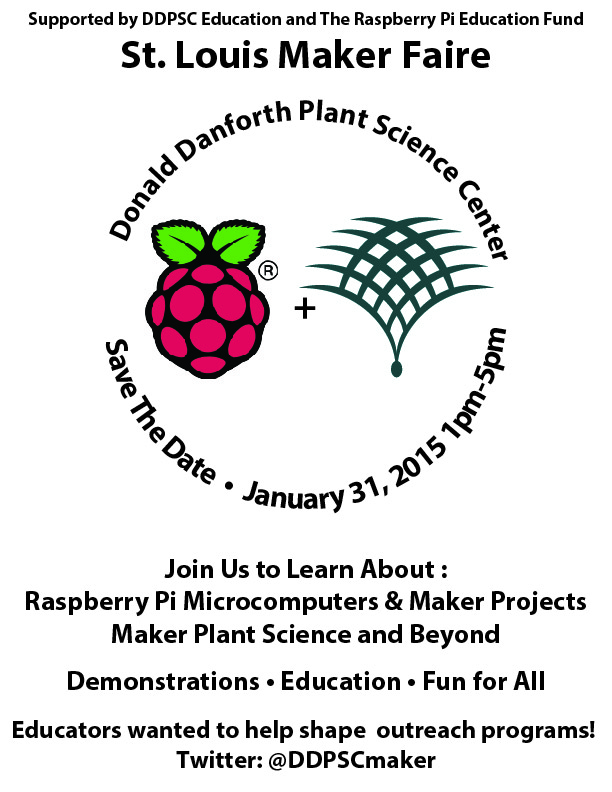
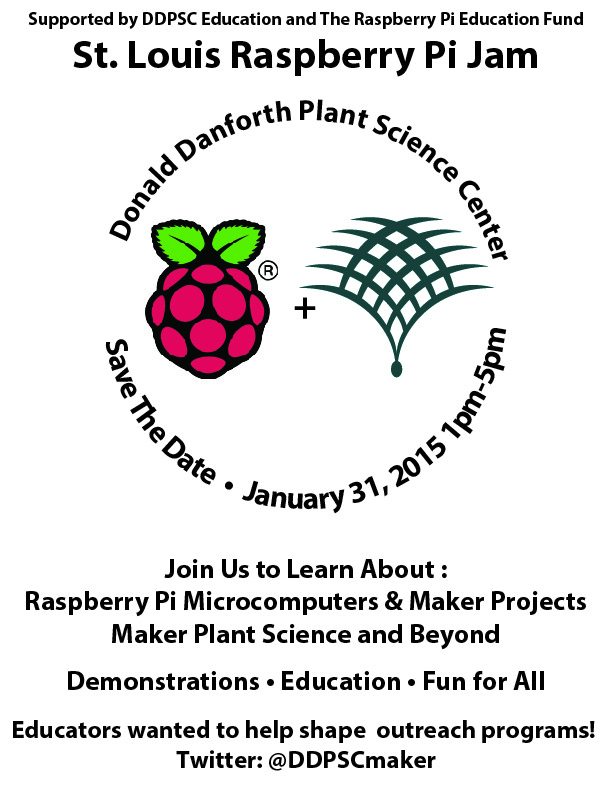
maker faire info added

Changed region(s): [[0.1242, 0.0303, 0.9003, 0.0909]]

diff --git a/pages/events.html b/pages/events.html
@@ -13,7 +13,7 @@ subtitle: Events
     
     <div class="col-md-5">
         <p>
-          The DDPSC Maker Group is excited to announce that we will be hosting a Maker Faire (free to the public!) January 31, 2015 at the Danforth Center (St. Louis, MO).
+          The DDPSC Maker Group is excited to announce that we will be hosting a Raspberry Pi Jam, to show off your latest Maker projects. The event is free to the public and will be held on January 31, 2015 at the Danforth Center (St. Louis, MO).
           If your group is interested in having a booth please contact <a href="mailto:ddpsc.maker@gmail.com"><b>ddpsc.maker@gmail.com</b></a>.
           <img style="border:1px solid black"; src="/images/events/2015/DDPSC_makerfaire_Jan31.jpg" width="400" alt>
         </p>

diff --git a/_site/pages/events.html b/_site/pages/events.html
@@ -84,7 +84,7 @@
     
     <div class="col-md-5">
         <p>
-          The DDPSC Maker Group is excited to announce that we will be hosting a Maker Faire (free to the public!) January 31, 2015 at the Danforth Center (St. Louis, MO).
+          The DDPSC Maker Group is excited to announce that we will be hosting a Raspberry Pi Jam, to show off your latest Maker projects. The event is free to the public and will be held on January 31, 2015 at the Danforth Center (St. Louis, MO).
           If your group is interested in having a booth please contact <a href="mailto:ddpsc.maker@gmail.com"><b>ddpsc.maker@gmail.com</b></a>.
           <img style="border:1px solid black"; src="/images/events/2015/DDPSC_makerfaire_Jan31.jpg" width="400" alt>
         </p>

diff --git a/pages/contact.html b/pages/contact.html
@@ -10,7 +10,7 @@ subtitle:
     <div class="col-md-7">
       <h1> Contact US</h1>
         <p>
-          The DDPSC Maker Group is excited to announce that we will be hosting a Maker Faire (free to the public!) January 31, 2015 at the Danforth Center (St. Louis, MO).
+          The DDPSC Maker Group is excited to announce that we will be hosting a Raspberry Pi Jam, to show off your latest Maker projects. The event is free to the public and will be held on January 31, 2015 at the Danforth Center (St. Louis, MO).
           If your group is interested in having a booth please contact <a href="mailto:ddpsc.maker@gmail.com"><b>ddpsc.maker@gmail.com</b></a>.
         </p>
         <br>

diff --git a/_site/pages/contact.html b/_site/pages/contact.html
@@ -81,7 +81,7 @@
     <div class="col-md-7">
       <h1> Contact US</h1>
         <p>
-          The DDPSC Maker Group is excited to announce that we will be hosting a Maker Faire (free to the public!) January 31, 2015 at the Danforth Center (St. Louis, MO).
+          The DDPSC Maker Group is excited to announce that we will be hosting a Raspberry Pi Jam, to show off your latest Maker projects. The event is free to the public and will be held on January 31, 2015 at the Danforth Center (St. Louis, MO).
           If your group is interested in having a booth please contact <a href="mailto:ddpsc.maker@gmail.com"><b>ddpsc.maker@gmail.com</b></a>.
         </p>
         <br>
